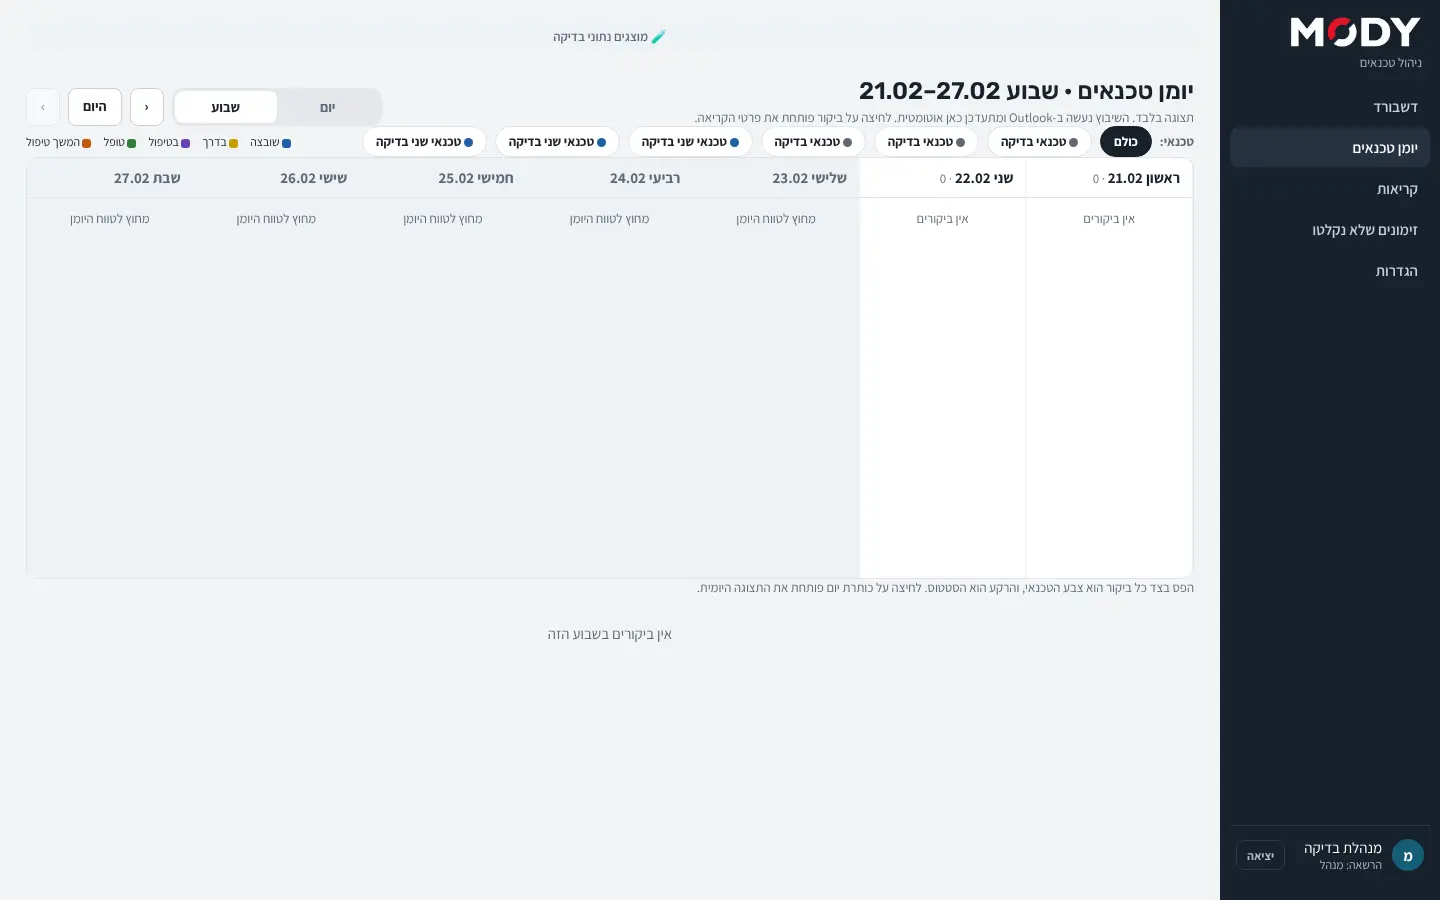
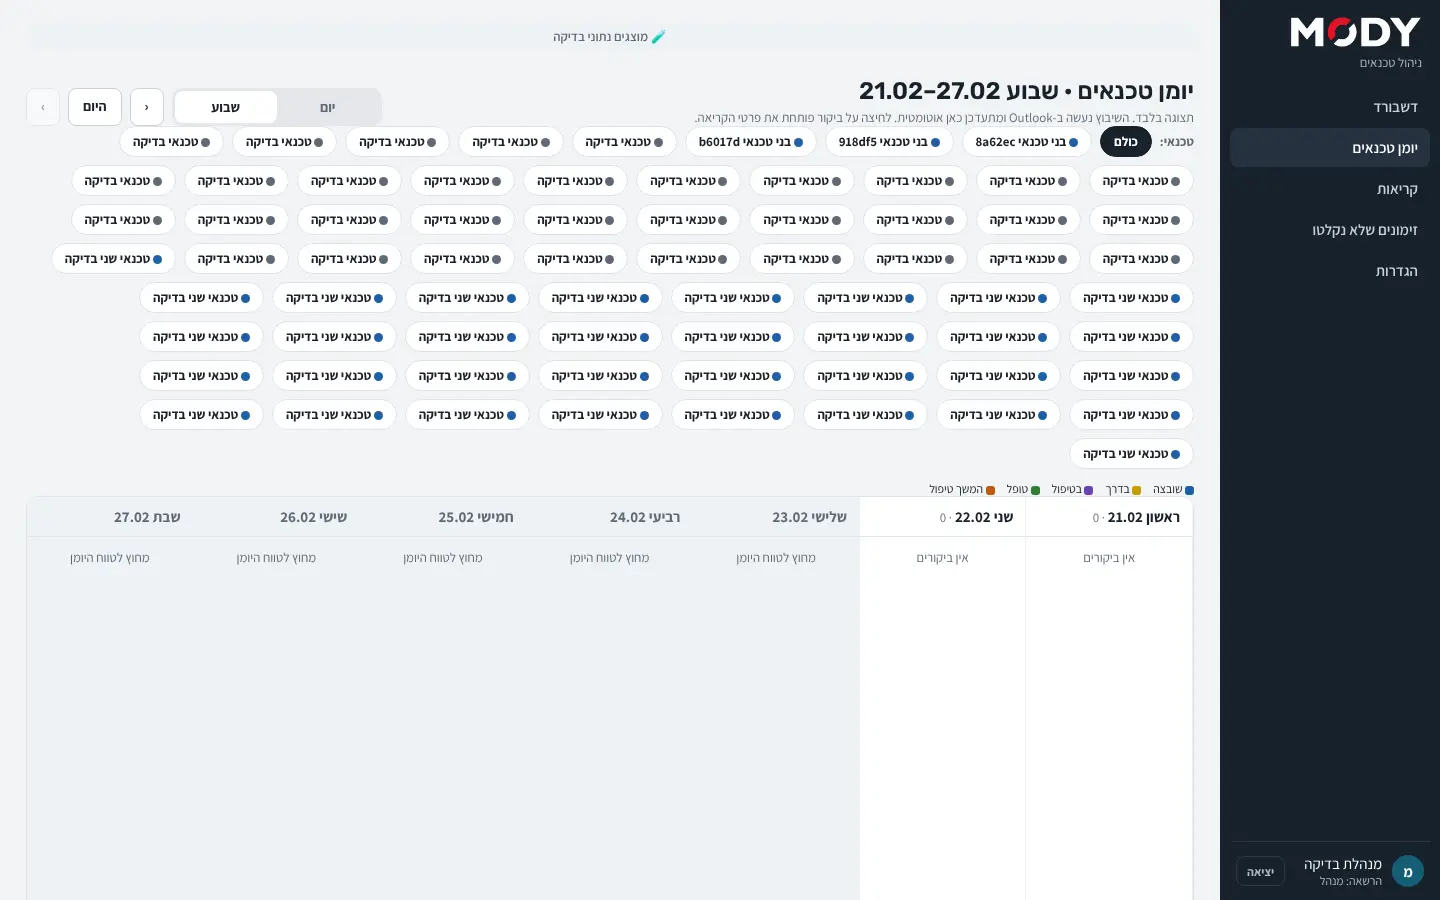
Office calendar review: phone screenshots (day grid, week grid, technician dropdown) and README changes after owner review 22.11
Claude-Session: https://claude.ai/code/session_011xmGFSbJMisDv2dL1UQpMV

diff --git a/tests/auth/office-tech-calendar-screenshots.spec.ts b/tests/auth/office-tech-calendar-screenshots.spec.ts
@@ -109,11 +109,11 @@ test("screenshots: week, day, drawer, technician dropdown, range edge", async ({
   await shoot(page, `/office/calendar?view=day&date=${today}&req=${first.req}&n=1`, "drawer", SIZES, techA);
   await shoot(page, `/office/calendar?view=week&date=${range.max}`, "range-edge", SIZES, techA);
   // "בחר טכנאי" with its options: a phone opens the system picker, which a page screenshot cannot
-  // show, so the list is drawn in place (size = option count) for the image only.
+  // show, so the list is drawn in place (up to 8 rows) for the image only.
   await shoot(page, "/office/calendar", "tech-select", [SIZES[0]], techA, async (p) => {
     await p.locator("[data-calendar-block=phone] select[data-tech-select]").evaluate((el) => {
       const select = el as HTMLSelectElement;
-      select.size = select.options.length;
+      select.size = Math.min(select.options.length, 8);
     });
   });
 });

diff --git a/docs/review/office-tech-calendar/README.md b/docs/review/office-tech-calendar/README.md
@@ -5,11 +5,15 @@ Signed in as the Manager on the local Supabase stack. Every record is fictional 
 | File | What it shows |
 | --- | --- |
 | `1440-default.webp` | `/office/calendar` with no view chosen: the week, Sunday to Saturday (D94 (a), (b)) |
-| `390-default.webp` | The same address on a phone: today's day, as cards (D94 (b)) |
+| `390-default.webp` | The same address on a phone: today's day for one technician, on the technician calendar's day strip and hour grid (D94 (b), owner review 22.11) |
 | `1440-day.webp` | Day view: one column per technician |
-| `390-week.webp` | Week view on a phone: one section per day |
+| `390-week.webp` | Week view on a phone: the technician calendar's 7-column week grid for the selected technician |
+| `390-tech-select.webp` | "בחר טכנאי" with its options (drawn in place for the image; a real phone opens the system picker) |
 | `1440-drawer.webp`, `390-drawer.webp` | A visit's drawer, with the link to the call card |
 | `1440-range-edge.webp`, `390-range-edge.webp` | The last week of the range: days after the range are greyed, "next" is disabled (D94 (d)) |
+| `1440-cs-nav.webp`, `390-cs-nav.webp` | Customer Service's menu with `cal` (D60 (4), D96) |
+
+The phone images choose the fictional technician who has visits (`?tech=`); with no `tech` the phone shows the first technician by name.
 
 The local stack is shared, so the technician list also holds technicians made by earlier test runs (two "טכנאי בדיקה" and two "טכנאי שני בדיקה").
 
@@ -28,3 +32,10 @@ The local stack is shared, so the technician list also holds technicians made by
 - "יומן טכנאים" appears in the menu only when the user has `cal` (D94 (c)); before, every office role saw it and the page denied. Review nit 4.
 - After go-live the drawer's technician read drops test rows (D91). Review nit 3.
 - Customer Service navigation (D60 (4), D96): "יומן טכנאים", "קריאות", "זימונים שלא נקלטו" — `390-cs-nav.webp`, `1440-cs-nav.webp`.
+
+## Changes after owner review 22.11 (phone only; amends D94 (b))
+1. **"בחר טכנאי" dropdown instead of the technician chips**, the same native select as the calls list's technician filter. One technician at a time, kept in the address (`?tech=`); default the first technician; an unknown id falls back to the first. Desktop keeps the chips ("כולם" and each technician).
+2. **Day = the technician calendar's day view** (D85 (b)): the day strip of the shown week (Sunday to Saturday, each day with its visit count; days outside the range are left out) and the hour grid with the visit blocks ("request · customer · time", status chip). The card list is removed.
+3. **Week = the technician calendar's week grid**: 7 columns, Sunday to Saturday, for the selected technician; a day heading opens that day; days outside the range are greyed.
+4. **No explanation line ("תצוגה בלבד…") and no colour legend on the phone.** Each block's status is still in its accessible name; on the day grid it is also a text chip. Desktop unchanged.
+5. Unchanged: default day on phone / week on desktop, the range clamp and disabled arrows, read-only, the `cal` gate, the test-data banner, and a tap on a visit opens the drawer.
